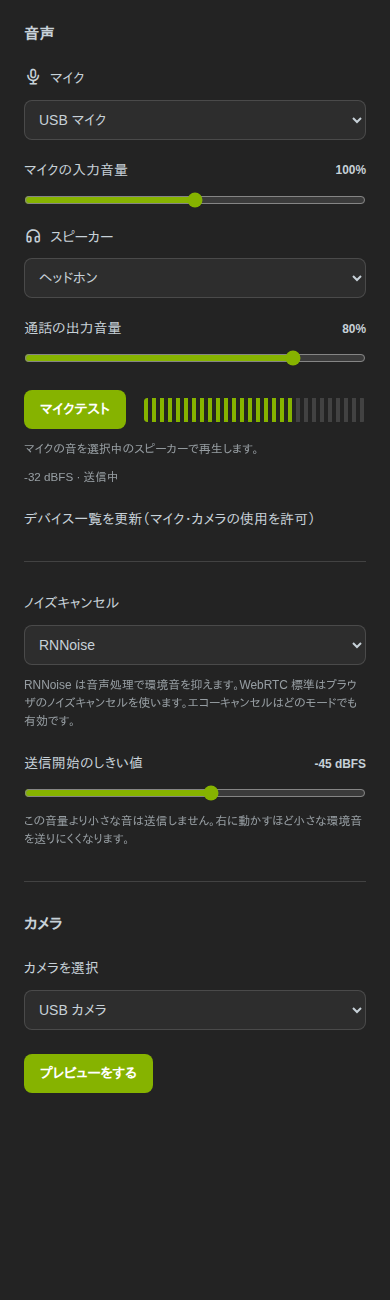
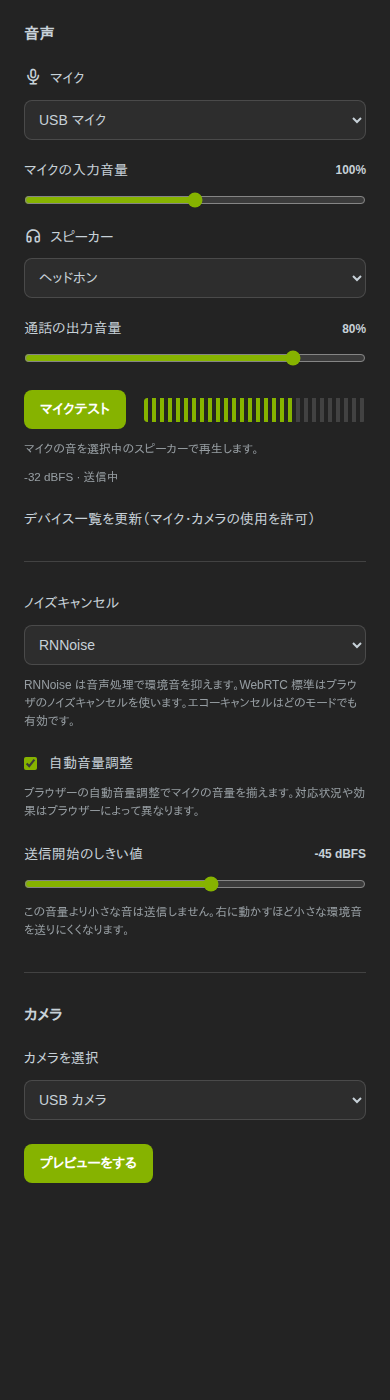
feat(calls): マイクの自動音量調整を設定できるようにする

diff --git a/packages/frontend/test/unit/calls-audio-settings.test.ts b/packages/frontend/test/unit/calls-audio-settings.test.ts
@@ -12,17 +12,18 @@ import type { CallsNoiseSuppressionMode } from '@/utility/calls-noise-suppressio
 vi.mock('@/components/MkCallsConnectionInfo.vue', () => ({ default: { template: '<div>Connection statistics</div>' } }));
 vi.mock('@/os.js', () => ({ alert: vi.fn() }));
 vi.mock('@/components/MkModalWindow.vue', () => ({ default: { template: '<section><slot name="header"/><slot/></section>' } }));
-vi.mock('@/i18n.js', () => ({ i18n: { ts: { _calls: { settings: 'Call settings', audioSection: 'Audio', microphoneTest: 'Microphone test', stopMicrophoneTest: 'Stop test', microphoneTestDescription: 'Loopback', previewCamera: 'Preview camera', selectCamera: 'Select camera', generalSettings: 'General', statisticsSettings: 'Statistics', microphone: 'Microphone', camera: 'Camera', outputDevice: 'Speaker', systemDefaultDevice: 'Default', inputVolume: 'Input volume', outputVolume: 'Output volume', refreshDevices: 'Refresh devices', noiseSuppressionMode: 'Noise cancellation', rnnoiseMode: 'RNNoise', webrtcMode: 'WebRTC', noNoiseSuppression: 'None', noiseSuppressionDescription: 'Choose processing', inputSensitivity: 'Threshold', inputGateDisabled: 'All input', inputSensitivityDescription: 'Minimum volume', inputLevel: 'Input level', inputTransmitting: 'Transmitting', inputNotTransmitting: 'Below threshold or muted' } } } }));
+vi.mock('@/i18n.js', () => ({ i18n: { ts: { _calls: { autoGainControl: 'Automatic gain control', autoGainControlDescription: 'Adjust loudness', settings: 'Call settings', audioSection: 'Audio', microphoneTest: 'Microphone test', stopMicrophoneTest: 'Stop test', microphoneTestDescription: 'Loopback', previewCamera: 'Preview camera', selectCamera: 'Select camera', generalSettings: 'General', statisticsSettings: 'Statistics', microphone: 'Microphone', camera: 'Camera', outputDevice: 'Speaker', systemDefaultDevice: 'Default', inputVolume: 'Input volume', outputVolume: 'Output volume', refreshDevices: 'Refresh devices', noiseSuppressionMode: 'Noise cancellation', rnnoiseMode: 'RNNoise', webrtcMode: 'WebRTC', noNoiseSuppression: 'None', noiseSuppressionDescription: 'Choose processing', inputSensitivity: 'Threshold', inputGateDisabled: 'All input', inputSensitivityDescription: 'Minimum volume', inputLevel: 'Input level', inputTransmitting: 'Transmitting', inputNotTransmitting: 'Below threshold or muted' } } } }));
 afterEach(cleanup);
 
 test('selects processing and threshold, shows the input meter, and disables changes while switching', async () => {
-	const state = reactive({ noiseSuppression: 'rnnoise' as CallsNoiseSuppressionMode, inputSensitivity: -45, inputLevel: -32, transmitting: true, busy: false, microphones: [{ deviceId: 'mic-1', label: 'USB microphone' } as MediaDeviceInfo], cameras: [], outputDevices: [], microphoneId: '', cameraId: '', outputDeviceId: '', inputVolume: 100, outputVolume: 100, supportsOutputDevice: true });
+	const state = reactive({ autoGainControl: true, noiseSuppression: 'rnnoise' as CallsNoiseSuppressionMode, inputSensitivity: -45, inputLevel: -32, transmitting: true, busy: false, microphones: [{ deviceId: 'mic-1', label: 'USB microphone' } as MediaDeviceInfo], cameras: [], outputDevices: [], microphoneId: '', cameraId: '', outputDeviceId: '', inputVolume: 100, outputVolume: 100, supportsOutputDevice: true });
 	const setNoiseSuppression = vi.fn(async (mode: CallsNoiseSuppressionMode) => { state.noiseSuppression = mode; });
 	const setInputSensitivity = vi.fn((value: number) => { state.inputSensitivity = value; });
+	const setAutoGainControl = vi.fn();
 	const setDevice = vi.fn();
 	const setInputVolume = vi.fn();
 	const setOutputVolume = vi.fn();
-	const view = render(MkCallsSettings, { props: { getInfo: vi.fn().mockResolvedValue(null), getSettings: () => state, setNoiseSuppression, setInputSensitivity, setInputVolume, setOutputVolume, setDevice, refreshDevices: vi.fn() } });
+	const view = render(MkCallsSettings, { props: { getInfo: vi.fn().mockResolvedValue(null), getSettings: () => state, setAutoGainControl, setNoiseSuppression, setInputSensitivity, setInputVolume, setOutputVolume, setDevice, refreshDevices: vi.fn() } });
 	await fireEvent.update(view.getByRole('combobox', { name: 'Microphone' }), 'mic-1');
 	expect(setDevice).toHaveBeenCalledWith('microphone', 'mic-1');
 	await fireEvent.update(view.getByRole('slider', { name: /Input volume/ }), '150');
@@ -31,6 +32,8 @@ test('selects processing and threshold, shows the input meter, and disables chan
 	expect(setOutputVolume).toHaveBeenCalledWith(50);
 	await fireEvent.update(view.getByRole('combobox', { name: 'Noise cancellation' }), 'webrtc');
 	expect(setNoiseSuppression).toHaveBeenCalledWith('webrtc');
+	await fireEvent.click(view.getByRole('checkbox', { name: 'Automatic gain control' }));
+	expect(setAutoGainControl).toHaveBeenCalledWith(false);
 	await fireEvent.update(view.getByRole('slider', { name: /Threshold/ }), '-35');
 	expect(setInputSensitivity).toHaveBeenCalledWith(-35);
 	expect(view.getByText('-35 dBFS')).toBeTruthy();

diff --git a/packages/frontend/test/unit/calls-session.test.ts b/packages/frontend/test/unit/calls-session.test.ts
@@ -33,11 +33,11 @@ const fixture = vi.hoisted(() => ({
 	revocationListenerRemovals: [] as Array<ReturnType<typeof vi.fn>>,
 	connections: [] as Array<{ room: { value: { id: string; title: string; state: string; revision: number } }; endReason: { value: 'host-timeout' | null }; participants: { value: Array<{ id: string; userId: string; role: string; isMuted: boolean; joinedAt?: string }> }; refresh: ReturnType<typeof vi.fn> }>,
 	remoteTrackCallbacks: [] as Array<(track: MediaStreamTrack, publication: CallsRemotePublication) => void>,
-	controllers: [] as Array<{ connectionIdentity: { connectionId: string; generation: number }; replaceExisting: boolean; localTrack: { enabled: boolean } | null; setMuted: ReturnType<typeof vi.fn>; switchMicrophone: ReturnType<typeof vi.fn>; close: ReturnType<typeof vi.fn>; startVideo: ReturnType<typeof vi.fn>; stopVideo: ReturnType<typeof vi.fn>; setVideoQuality: ReturnType<typeof vi.fn>; setNoiseSuppression: ReturnType<typeof vi.fn>; setInputVolume: ReturnType<typeof vi.fn>; setInputSensitivity: ReturnType<typeof vi.fn> }>,
+	controllers: [] as Array<{ connectionIdentity: { connectionId: string; generation: number }; replaceExisting: boolean; localTrack: { enabled: boolean } | null; setMuted: ReturnType<typeof vi.fn>; switchMicrophone: ReturnType<typeof vi.fn>; close: ReturnType<typeof vi.fn>; startVideo: ReturnType<typeof vi.fn>; stopVideo: ReturnType<typeof vi.fn>; setVideoQuality: ReturnType<typeof vi.fn>; setAutoGainControl: ReturnType<typeof vi.fn>; setNoiseSuppression: ReturnType<typeof vi.fn>; setInputVolume: ReturnType<typeof vi.fn>; setInputSensitivity: ReturnType<typeof vi.fn> }>,
 }));
 
 vi.mock('@/utility/sound.js', () => ({ playMisskeySfx: fixture.playSound }));
-vi.mock('@/preferences.js', () => ({ prefer: { s: { callsNoiseSuppression: 'rnnoise', callsInputSensitivity: -100, callsMicrophone: '', callsCamera: '', callsOutputDevice: '', callsInputVolume: 100, callsOutputVolume: 100 }, commit: vi.fn() } }));
+vi.mock('@/preferences.js', () => ({ prefer: { s: { callsAutoGainControl: true, callsNoiseSuppression: 'rnnoise', callsInputSensitivity: -100, callsMicrophone: '', callsCamera: '', callsOutputDevice: '', callsInputVolume: 100, callsOutputVolume: 100 }, commit: vi.fn() } }));
 vi.mock('@/i.js', () => ({ $i: { id: 'user-a', policies: fixture.policies } }));
 vi.mock('@/i18n.js', () => ({ i18n: {
 	ts: { somethingHappened: 'Something went wrong', _calls: { videoFailed: 'Video failed', videoResolution: 'Resolution', videoSourceQuality: 'Source quality', videoFrameRate: 'Frame rate', connectedOnAnotherDevice: 'Connected on another device', switchDeviceConfirm: 'Disconnect the other device?', hostLeftRoomEnded: 'Host left; room ended' } },
@@ -79,6 +79,7 @@ vi.mock('@/utility/calls-media.js', () => ({
 		public stopVideo = vi.fn().mockResolvedValue(undefined);
 		public close = vi.fn().mockResolvedValue(undefined);
 		public setVideoQuality = vi.fn().mockResolvedValue(undefined);
+		public setAutoGainControl = vi.fn();
 		public setNoiseSuppression = vi.fn();
 		public setInputVolume = vi.fn();
 		public setInputSensitivity = vi.fn();
@@ -576,6 +577,11 @@ describe('Calls session device handoff', () => {
 		await fixture.popupMenu.mock.calls[0][0].at(-1).action();
 		const settings = fixture.popup.mock.calls[0][1];
 		expect(settings.getSettings().noiseSuppression).toBe('rnnoise');
+		await settings.setAutoGainControl(false);
+		expect(fixture.controllers[0].setAutoGainControl).toHaveBeenLastCalledWith(false);
+		expect(settings.getSettings().autoGainControl).toBe(false);
+		const { prefer } = await import('@/preferences.js');
+		expect(prefer.commit).toHaveBeenCalledWith('callsAutoGainControl', false);
 		await settings.setNoiseSuppression('webrtc');
 		expect(fixture.controllers[0].setNoiseSuppression).toHaveBeenLastCalledWith('webrtc');
 		expect(settings.getSettings().noiseSuppression).toBe('webrtc');

diff --git a/packages/frontend/src/utility/calls-session.ts b/packages/frontend/src/utility/calls-session.ts
@@ -59,6 +59,7 @@ const sessionParticipant = shallowRef<Misskey.entities.CallsParticipant | null>(
 const muted = ref(false);
 const joining = ref(false);
 const replacedRoomId = ref<string | null>(null);
+const autoGainControl = ref(prefer.s.callsAutoGainControl);
 const noiseSuppression = ref<CallsNoiseSuppressionMode>(prefer.s.callsNoiseSuppression);
 const inputSensitivity = ref(prefer.s.callsInputSensitivity);
 const inputLevel = ref(-100);
@@ -331,6 +332,7 @@ async function connectMedia(generation: number, previousConnection?: { connectio
 	);
 	media.value = controller;
 	controller.setMuted(muted.value);
+	await controller.setAutoGainControl(autoGainControl.value);
 	await controller.setNoiseSuppression(noiseSuppression.value);
 	controller.setInputSensitivity(inputSensitivity.value);
 	controller.setInputVolume(inputVolume.value);
@@ -656,13 +658,14 @@ async function openAudioSettings(initialPage: 'general' | 'statistics' = 'genera
 		refreshDevices,
 		setInputVolume,
 		setOutputVolume,
+		setAutoGainControl,
 		setNoiseSuppression,
 		setInputSensitivity,
 	}, { closed: () => dispose() });
 }
 
 function getAudioSettings() {
-	return { noiseSuppression: noiseSuppression.value, inputSensitivity: inputSensitivity.value, inputLevel: inputLevel.value, transmitting: inputTransmitting.value && !muted.value, busy: audioSettingsBusy.value || videoBusy.value || joining.value, microphones: microphones.value, cameras: cameras.value, outputDevices: outputDevices.value, microphoneId: selectedMicrophone.value, cameraId: selectedCamera.value, outputDeviceId: selectedOutputDevice.value, inputVolume: inputVolume.value, outputVolume: outputVolume.value, supportsOutputDevice };
+	return { autoGainControl: autoGainControl.value, noiseSuppression: noiseSuppression.value, inputSensitivity: inputSensitivity.value, inputLevel: inputLevel.value, transmitting: inputTransmitting.value && !muted.value, busy: audioSettingsBusy.value || videoBusy.value || joining.value, microphones: microphones.value, cameras: cameras.value, outputDevices: outputDevices.value, microphoneId: selectedMicrophone.value, cameraId: selectedCamera.value, outputDeviceId: selectedOutputDevice.value, inputVolume: inputVolume.value, outputVolume: outputVolume.value, supportsOutputDevice };
 }
 
 async function refreshDevices(): Promise<void> {
@@ -719,6 +722,21 @@ function setOutputVolume(volume: number): void {
 	outputVolume.value = volume;
 	prefer.commit('callsOutputVolume', volume);
 	applyParticipantVolumes();
+}
+
+async function setAutoGainControl(enabled: boolean): Promise<void> {
+	if (audioSettingsBusy.value) return;
+	audioSettingsBusy.value = true;
+	try {
+		await media.value?.setAutoGainControl(enabled);
+		autoGainControl.value = enabled;
+		prefer.commit('callsAutoGainControl', enabled);
+	} catch (error) {
+		console.error('[Calls] Automatic gain control change failed', error);
+		await alert({ type: 'error', text: i18n.ts._calls.mediaFailed });
+	} finally {
+		audioSettingsBusy.value = false;
+	}
 }
 
 async function setNoiseSuppression(mode: CallsNoiseSuppressionMode): Promise<void> {
@@ -889,6 +907,7 @@ export function useCallsSession() {
 		inputSensitivity,
 		openAudioSettings,
 		getAudioSettings,
+		setAutoGainControl,
 		setNoiseSuppression,
 		setInputSensitivity,
 		setDevice,

diff --git a/packages/frontend/src/utility/calls-media.ts b/packages/frontend/src/utility/calls-media.ts
@@ -60,6 +60,7 @@ export class CallsMediaController {
 	private noiseSuppression: CallsNoiseSuppressionMode = 'rnnoise';
 	private inputSensitivity = -100;
 	private inputVolume = 100;
+	private autoGainControl = true;
 	private reconnectReason: CallsNormalizedStats['reconnectReason'] = null;
 	private reconnectStartedAt = 0;
 	private recoveryTimeMs: number | null = null;
@@ -137,7 +138,7 @@ export class CallsMediaController {
 				deviceId: deviceId == null ? undefined : { exact: deviceId },
 				channelCount: { ideal: 1 }, echoCancellation: { ideal: true },
 				// Apply browser suppression only in WebRTC mode; echo cancellation stays enabled.
-				noiseSuppression: this.noiseSuppression === 'webrtc', autoGainControl: { ideal: true },
+				noiseSuppression: this.noiseSuppression === 'webrtc', autoGainControl: this.autoGainControl,
 			},
 		});
 		const stream = await new Promise<MediaStream>((resolve, reject) => {
@@ -175,7 +176,7 @@ export class CallsMediaController {
 				this.videoCallbacks?.noiseSuppressionChanged?.('none');
 			}, abort.signal, { rnnoise: this.noiseSuppression === 'rnnoise', inputSensitivity: this.inputSensitivity, inputVolume: this.inputVolume, onLevel: (level, transmitting) => { if (this.microphone?.track === track) this.videoCallbacks?.inputLevel?.(level, transmitting && !this.muted); } });
 			abort.signal.throwIfAborted();
-			await track.applyConstraints({ noiseSuppression: this.noiseSuppression === 'webrtc' });
+			await track.applyConstraints({ noiseSuppression: this.noiseSuppression === 'webrtc', autoGainControl: this.autoGainControl });
 			await processing.setEnabled(this.noiseSuppression === 'rnnoise');
 			processing.setInputSensitivity(this.inputSensitivity);
 			processing.setInputVolume(this.inputVolume);
@@ -555,14 +556,22 @@ export class CallsMediaController {
 			if (this.noiseSuppression === mode || this.microphone == null) return;
 			if (mode === 'rnnoise' && this.microphone.processing == null) throw new Error('RNNoise is unavailable');
 			const previous = this.noiseSuppression;
-			await this.microphone.track.applyConstraints({ noiseSuppression: mode === 'webrtc' });
+			await this.microphone.track.applyConstraints({ noiseSuppression: mode === 'webrtc', autoGainControl: this.autoGainControl });
 			try {
 				await this.microphone.processing?.setEnabled(mode === 'rnnoise');
 				this.noiseSuppression = mode;
 			} catch (error) {
-				await this.microphone.track.applyConstraints({ noiseSuppression: previous === 'webrtc' });
+				await this.microphone.track.applyConstraints({ noiseSuppression: previous === 'webrtc', autoGainControl: this.autoGainControl });
 				throw error;
 			}
+		});
+	}
+
+	public async setAutoGainControl(enabled: boolean): Promise<void> {
+		if (this.microphone == null) { this.autoGainControl = enabled; return; }
+		await this.enqueue(async () => {
+			await this.microphone?.track.applyConstraints({ autoGainControl: enabled, noiseSuppression: this.noiseSuppression === 'webrtc' });
+			this.autoGainControl = enabled;
 		});
 	}
 

diff --git a/packages/frontend/src/components/MkCallsGeneralSettings.vue b/packages/frontend/src/components/MkCallsGeneralSettings.vue
@@ -34,6 +34,11 @@ SPDX-License-Identifier: AGPL-3.0-only
 			</select>
 		</label>
 		<p :class="$style.description">{{ i18n.ts._calls.noiseSuppressionDescription }}</p>
+		<label :class="$style.toggle">
+			<input type="checkbox" :checked="state.autoGainControl" :disabled="state.busy" @change="setAutoGainControl(($event.target as HTMLInputElement).checked)">
+			<span>{{ i18n.ts._calls.autoGainControl }}</span>
+		</label>
+		<p :class="$style.description">{{ i18n.ts._calls.autoGainControlDescription }}</p>
 		<label :class="$style.field">
 			<span>{{ i18n.ts._calls.inputSensitivity }} <strong>{{ state.inputSensitivity <= -100 ? i18n.ts._calls.inputGateDisabled : `${state.inputSensitivity} dBFS` }}</strong></span>
 			<input type="range" min="-100" max="0" step="1" :value="state.inputSensitivity" :disabled="state.busy" @input="setInputSensitivity(Number(($event.target as HTMLInputElement).value))">
@@ -58,7 +63,8 @@ SPDX-License-Identifier: AGPL-3.0-only
 import type { CallsNoiseSuppressionMode } from '@/utility/calls-noise-suppression.js';
 
 export type CallsGeneralSettingsProps = {
-	getSettings: () => { noiseSuppression: CallsNoiseSuppressionMode; inputSensitivity: number; inputLevel: number; transmitting: boolean; busy: boolean; microphones: MediaDeviceInfo[]; cameras: MediaDeviceInfo[]; outputDevices: MediaDeviceInfo[]; microphoneId: string; cameraId: string; outputDeviceId: string; inputVolume: number; outputVolume: number; supportsOutputDevice: boolean };
+	getSettings: () => { autoGainControl: boolean; noiseSuppression: CallsNoiseSuppressionMode; inputSensitivity: number; inputLevel: number; transmitting: boolean; busy: boolean; microphones: MediaDeviceInfo[]; cameras: MediaDeviceInfo[]; outputDevices: MediaDeviceInfo[]; microphoneId: string; cameraId: string; outputDeviceId: string; inputVolume: number; outputVolume: number; supportsOutputDevice: boolean };
+	setAutoGainControl: (enabled: boolean) => Promise<void>;
 	setNoiseSuppression: (mode: CallsNoiseSuppressionMode) => Promise<void>;
 	setInputSensitivity: (threshold: number) => void;
 	setInputVolume: (volume: number) => void;
@@ -103,6 +109,8 @@ function devices(kind: typeof audioDeviceKinds[number]): MediaDeviceInfo[] { ret
 .field > span:has(> i) { justify-content: flex-start; }
 .field strong { font-size: 0.85em; font-variant-numeric: tabular-nums; }
 .field input { width: 100%; margin: 0; accent-color: var(--MI_THEME-accent); }
+.toggle { display: flex; align-items: center; gap: 12px; }
+.toggle input { margin: 0; accent-color: var(--MI_THEME-accent); }
 .select { width: 100%; min-width: 0; padding: 10px; border: 1px solid var(--MI_THEME-divider); border-radius: 8px; background: var(--MI_THEME-panel); color: var(--MI_THEME-fg); font: inherit; text-overflow: ellipsis; }
 .description { margin: -12px 0 0; font-size: 0.85em; line-height: 1.5; opacity: 0.7; }
 </style>

diff --git a/packages/frontend/src/components/MkCallsSettings.stories.impl.ts b/packages/frontend/src/components/MkCallsSettings.stories.impl.ts
@@ -12,11 +12,12 @@ export const Default = {
 	render() {
 		const mode = ref<CallsNoiseSuppressionMode>('rnnoise');
 		const threshold = ref(-45);
-		const settings = computed(() => ({ noiseSuppression: mode.value, inputSensitivity: threshold.value, inputLevel: -32, transmitting: true, busy: false, microphones: [], cameras: [], outputDevices: [], microphoneId: '', cameraId: '', outputDeviceId: '', inputVolume: 100, outputVolume: 100, supportsOutputDevice: true }));
+		const autoGainControl = ref(true);
+		const settings = computed(() => ({ autoGainControl: autoGainControl.value, noiseSuppression: mode.value, inputSensitivity: threshold.value, inputLevel: -32, transmitting: true, busy: false, microphones: [], cameras: [], outputDevices: [], microphoneId: '', cameraId: '', outputDeviceId: '', inputVolume: 100, outputVolume: 100, supportsOutputDevice: true }));
 		return {
 			components: { MkCallsSettings },
-			setup: () => ({ setDevice: async () => {}, refreshDevices: async () => {}, setInputVolume: () => {}, setOutputVolume: () => {}, getInfo: async () => null, getSettings: () => settings.value, async setNoiseSuppression(value: CallsNoiseSuppressionMode) { mode.value = value; }, setInputSensitivity(value: number) { threshold.value = value; } }),
-			template: '<MkCallsSettings :setDevice="setDevice" :refreshDevices="refreshDevices" :setInputVolume="setInputVolume" :setOutputVolume="setOutputVolume" :getInfo="getInfo" :getSettings="getSettings" :setNoiseSuppression="setNoiseSuppression" :setInputSensitivity="setInputSensitivity"/>',
+			setup: () => ({ setAutoGainControl: async (enabled: boolean) => { autoGainControl.value = enabled; }, setDevice: async () => {}, refreshDevices: async () => {}, setInputVolume: () => {}, setOutputVolume: () => {}, getInfo: async () => null, getSettings: () => settings.value, async setNoiseSuppression(value: CallsNoiseSuppressionMode) { mode.value = value; }, setInputSensitivity(value: number) { threshold.value = value; } }),
+			template: '<MkCallsSettings :setDevice="setDevice" :refreshDevices="refreshDevices" :setInputVolume="setInputVolume" :setOutputVolume="setOutputVolume" :getInfo="getInfo" :getSettings="getSettings" :setAutoGainControl="setAutoGainControl" :setNoiseSuppression="setNoiseSuppression" :setInputSensitivity="setInputSensitivity"/>',
 		};
 	},
 	parameters: { layout: 'centered' },

diff --git a/packages/frontend/src/components/MkCallsGeneralSettings.stories.impl.ts b/packages/frontend/src/components/MkCallsGeneralSettings.stories.impl.ts
@@ -12,11 +12,12 @@ export const Default = {
 	render() {
 		const mode = ref<CallsNoiseSuppressionMode>('rnnoise');
 		const threshold = ref(-45);
-		const settings = computed(() => ({ noiseSuppression: mode.value, inputSensitivity: threshold.value, inputLevel: -32, transmitting: true, busy: false, microphones: [], cameras: [], outputDevices: [], microphoneId: '', cameraId: '', outputDeviceId: '', inputVolume: 100, outputVolume: 100, supportsOutputDevice: true }));
+		const autoGainControl = ref(true);
+		const settings = computed(() => ({ autoGainControl: autoGainControl.value, noiseSuppression: mode.value, inputSensitivity: threshold.value, inputLevel: -32, transmitting: true, busy: false, microphones: [], cameras: [], outputDevices: [], microphoneId: '', cameraId: '', outputDeviceId: '', inputVolume: 100, outputVolume: 100, supportsOutputDevice: true }));
 		return {
 			components: { MkCallsGeneralSettings },
-			setup: () => ({ setDevice: async () => {}, refreshDevices: async () => {}, setInputVolume: () => {}, setOutputVolume: () => {}, getInfo: async () => null, getSettings: () => settings.value, async setNoiseSuppression(value: CallsNoiseSuppressionMode) { mode.value = value; }, setInputSensitivity(value: number) { threshold.value = value; } }),
-			template: '<MkCallsGeneralSettings :setDevice="setDevice" :refreshDevices="refreshDevices" :setInputVolume="setInputVolume" :setOutputVolume="setOutputVolume" :getSettings="getSettings" :setNoiseSuppression="setNoiseSuppression" :setInputSensitivity="setInputSensitivity"/>',
+			setup: () => ({ setAutoGainControl: async (enabled: boolean) => { autoGainControl.value = enabled; }, setDevice: async () => {}, refreshDevices: async () => {}, setInputVolume: () => {}, setOutputVolume: () => {}, getInfo: async () => null, getSettings: () => settings.value, async setNoiseSuppression(value: CallsNoiseSuppressionMode) { mode.value = value; }, setInputSensitivity(value: number) { threshold.value = value; } }),
+			template: '<MkCallsGeneralSettings :setDevice="setDevice" :refreshDevices="refreshDevices" :setInputVolume="setInputVolume" :setOutputVolume="setOutputVolume" :getSettings="getSettings" :setAutoGainControl="setAutoGainControl" :setNoiseSuppression="setNoiseSuppression" :setInputSensitivity="setInputSensitivity"/>',
 		};
 	},
 	parameters: { layout: 'centered' },

diff --git a/packages/frontend/test/unit/calls-microphone-test.test.ts b/packages/frontend/test/unit/calls-microphone-test.test.ts
@@ -23,12 +23,12 @@ test('loops the selected microphone through processing, adjusts volumes, and sto
 	Object.defineProperty(navigator, 'mediaDevices', { configurable: true, value: { getUserMedia: capture } });
 	const processor = { track, close: vi.fn(), setInputVolume: vi.fn(), setInputSensitivity: vi.fn(), setMuted: vi.fn(), setEnabled: vi.fn() };
 	vi.mocked(createCallsNoiseSuppression).mockResolvedValue(processor);
-	const state = reactive({ noiseSuppression: 'none' as const, inputSensitivity: -45, inputLevel: -100, transmitting: false, busy: false, microphones: [], cameras: [], outputDevices: [], microphoneId: 'usb-microphone', cameraId: '', outputDeviceId: '', inputVolume: 100, outputVolume: 50, supportsOutputDevice: false });
+	const state = reactive({ autoGainControl: true, noiseSuppression: 'none' as const, inputSensitivity: -45, inputLevel: -100, transmitting: false, busy: false, microphones: [], cameras: [], outputDevices: [], microphoneId: 'usb-microphone', cameraId: '', outputDeviceId: '', inputVolume: 100, outputVolume: 50, supportsOutputDevice: false });
 	const view = render(MkCallsMicrophoneTest, { props: { getSettings: () => state } });
 	expect(capture).not.toHaveBeenCalled();
 	await fireEvent.click(view.getByRole('button', { name: 'Test microphone' }));
 	await waitFor(() => expect(play).toHaveBeenCalledOnce());
-	expect(capture).toHaveBeenCalledWith({ audio: { deviceId: { exact: 'usb-microphone' }, echoCancellation: true, noiseSuppression: false }, video: false });
+	expect(capture).toHaveBeenCalledWith({ audio: { deviceId: { exact: 'usb-microphone' }, echoCancellation: true, autoGainControl: true, noiseSuppression: false }, video: false });
 	const options = vi.mocked(createCallsNoiseSuppression).mock.calls[0][3]!;
 	expect(options).toMatchObject({ rnnoise: false, inputSensitivity: -45, inputVolume: 100 });
 	options.onLevel?.(-30, true);

diff --git a/packages/frontend/src/components/MkCallsMicrophoneTest.vue b/packages/frontend/src/components/MkCallsMicrophoneTest.vue
@@ -55,7 +55,7 @@ async function start(): Promise<void> {
 	abort = controller;
 	testing.value = true;
 	try {
-		const captured = await navigator.mediaDevices.getUserMedia({ audio: { deviceId: state.value.microphoneId ? { exact: state.value.microphoneId } : undefined, echoCancellation: true, noiseSuppression: state.value.noiseSuppression === 'webrtc' }, video: false });
+		const captured = await navigator.mediaDevices.getUserMedia({ audio: { deviceId: state.value.microphoneId ? { exact: state.value.microphoneId } : undefined, echoCancellation: true, autoGainControl: state.value.autoGainControl, noiseSuppression: state.value.noiseSuppression === 'webrtc' }, video: false });
 		if (controller.signal.aborted) { captured.getTracks().forEach(track => track.stop()); return; }
 		stream = captured;
 		const processor = await createCallsNoiseSuppression(captured, error => { console.error('[Calls] Microphone test processor failed', error); stop(); void os.alert({ type: 'error', text: i18n.ts._calls.mediaFailed }); }, controller.signal, { rnnoise: state.value.noiseSuppression === 'rnnoise', inputSensitivity: state.value.inputSensitivity, inputVolume: state.value.inputVolume, onLevel: (value, open) => { testLevel.value = value; testTransmitting.value = open; } });
@@ -75,7 +75,7 @@ async function start(): Promise<void> {
 	}
 }
 
-watch(() => [state.value.microphoneId, state.value.outputDeviceId, state.value.noiseSuppression], stop);
+watch(() => [state.value.microphoneId, state.value.outputDeviceId, state.value.noiseSuppression, state.value.autoGainControl], stop);
 watch(() => [state.value.inputVolume, state.value.outputVolume, state.value.inputSensitivity], () => {
 	processing?.setInputVolume(state.value.inputVolume);
 	processing?.setInputSensitivity(state.value.inputSensitivity);

diff --git a/packages/frontend/test/unit/calls-media-controller.test.ts b/packages/frontend/test/unit/calls-media-controller.test.ts
@@ -368,7 +368,8 @@ describe('CallsMediaController', () => {
 		await controller.setNoiseSuppression('rnnoise');
 		await controller.setNoiseSuppression('none');
 		await controller.setNoiseSuppression('webrtc');
-		expect(tracks[0].applyConstraints).toHaveBeenLastCalledWith({ noiseSuppression: true });
+		await controller.setAutoGainControl(false);
+		expect(tracks[0].applyConstraints).toHaveBeenLastCalledWith({ noiseSuppression: true, autoGainControl: false });
 		await controller.setNoiseSuppression('none');
 		controller.setInputVolume(150);
 		expect(processing.setInputVolume).toHaveBeenLastCalledWith(150);
@@ -383,7 +384,7 @@ describe('CallsMediaController', () => {
 		expect(output.enabled).toBe(false);
 		expect(microphoneTrack).toHaveBeenCalledExactlyOnceWith(output);
 		await controller.switchMicrophone('other-mic');
-		expect(getUserMedia).toHaveBeenLastCalledWith(expect.objectContaining({ audio: expect.objectContaining({ noiseSuppression: false, echoCancellation: { ideal: true }, deviceId: { exact: 'other-mic' } }) }));
+		expect(getUserMedia).toHaveBeenLastCalledWith(expect.objectContaining({ audio: expect.objectContaining({ noiseSuppression: false, autoGainControl: false, echoCancellation: { ideal: true }, deviceId: { exact: 'other-mic' } }) }));
 		const replacement = await noiseSuppressionMock.mock.results[1].value;
 		expect(replacement.setEnabled).toHaveBeenLastCalledWith(false);
 		expect(processing.close).toHaveBeenCalledOnce();

diff --git a/packages/frontend/src/pages/settings/calls.vue b/packages/frontend/src/pages/settings/calls.vue
@@ -5,7 +5,7 @@ SPDX-License-Identifier: AGPL-3.0-only
 
 <template>
 <SearchMarker path="/settings/calls" :label="i18n.ts._calls.settings" :keywords="['calls', 'microphone', 'camera', 'volume']" icon="ti ti-phone">
-	<MkCallsGeneralSettings :getSettings="session.getAudioSettings" :setNoiseSuppression="session.setNoiseSuppression" :setInputSensitivity="session.setInputSensitivity" :setInputVolume="session.setInputVolume" :setOutputVolume="session.setOutputVolume" :setDevice="session.setDevice" :refreshDevices="session.refreshDevices"/>
+	<MkCallsGeneralSettings :getSettings="session.getAudioSettings" :setAutoGainControl="session.setAutoGainControl" :setNoiseSuppression="session.setNoiseSuppression" :setInputSensitivity="session.setInputSensitivity" :setInputVolume="session.setInputVolume" :setOutputVolume="session.setOutputVolume" :setDevice="session.setDevice" :refreshDevices="session.refreshDevices"/>
 </SearchMarker>
 </template>
 

diff --git a/packages/frontend/src/components/MkCallsMicrophoneTest.stories.impl.ts b/packages/frontend/src/components/MkCallsMicrophoneTest.stories.impl.ts
@@ -8,5 +8,5 @@ import type { StoryObj } from '@storybook/vue3';
 
 export const Default = {
 	render: args => ({ components: { MkCallsMicrophoneTest }, setup: () => ({ args }), template: '<MkCallsMicrophoneTest v-bind="args"/>' }),
-	args: { getSettings: () => ({ noiseSuppression: 'rnnoise', inputSensitivity: -100, inputLevel: -32, transmitting: true, busy: false, microphones: [], cameras: [], outputDevices: [], microphoneId: '', cameraId: '', outputDeviceId: '', inputVolume: 100, outputVolume: 100, supportsOutputDevice: false }) },
+	args: { getSettings: () => ({ autoGainControl: true, noiseSuppression: 'rnnoise', inputSensitivity: -100, inputLevel: -32, transmitting: true, busy: false, microphones: [], cameras: [], outputDevices: [], microphoneId: '', cameraId: '', outputDeviceId: '', inputVolume: 100, outputVolume: 100, supportsOutputDevice: false }) },
 } satisfies StoryObj<typeof MkCallsMicrophoneTest>;
